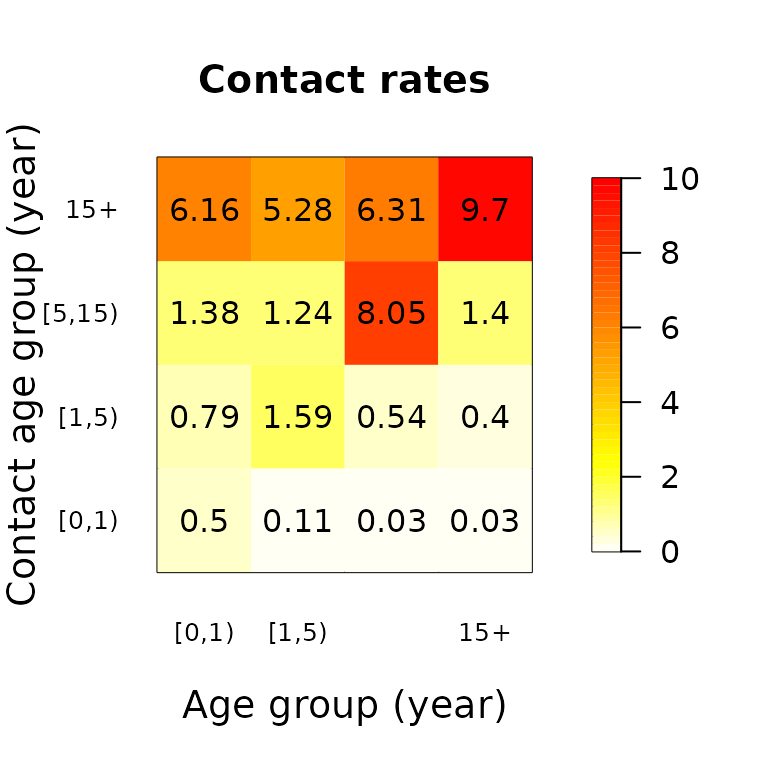
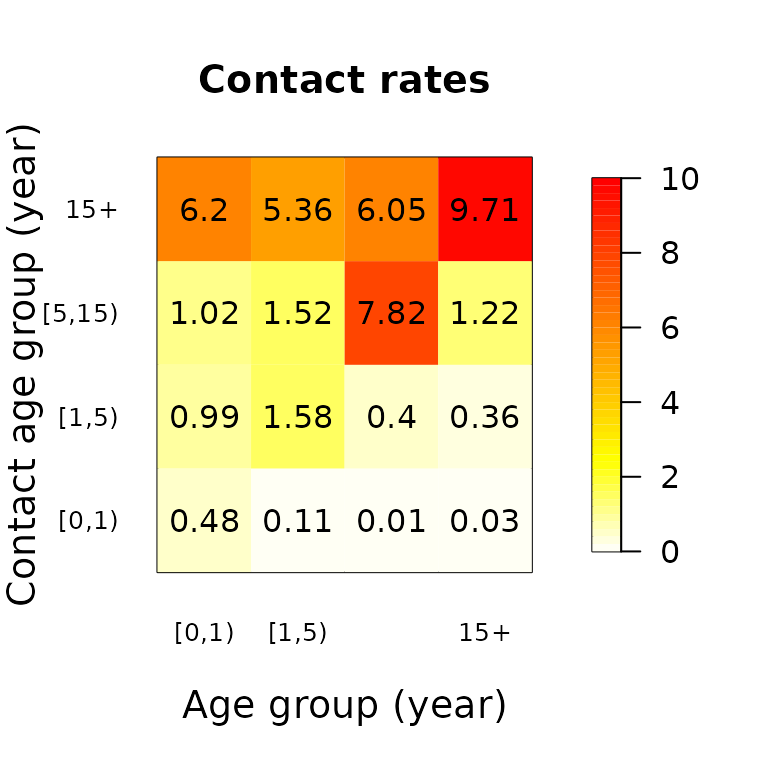
Deploying to gh-pages from @ epiforecasts/socialmixr@d3d4887175f21b2914ebb752b8e24715beb141ff 🚀

diff --git a/articles/socialmixr.html b/articles/socialmixr.html
@@ -225,10 +225,10 @@ be obtained, for example the mean:</p>
 <span><span class="va">mr</span></span>
 <span><span class="co">#&gt;          contact.age.group</span></span>
 <span><span class="co">#&gt; age.group      [0,1)     [1,5)   [5,15)      15+</span></span>
-<span><span class="co">#&gt;    [0,1)  0.49746032 0.7860317 1.376667 6.163214</span></span>
-<span><span class="co">#&gt;    [1,5)  0.11185585 1.5920255 1.240737 5.281708</span></span>
-<span><span class="co">#&gt;    [5,15) 0.02901799 0.5362565 8.051843 6.314400</span></span>
-<span><span class="co">#&gt;    15+    0.03259944 0.3955389 1.399096 9.704168</span></span></code></pre></div>
+<span><span class="co">#&gt;    [0,1)  0.48050420 0.9898039 1.018487 6.195350</span></span>
+<span><span class="co">#&gt;    [1,5)  0.10889383 1.5795335 1.523541 5.355014</span></span>
+<span><span class="co">#&gt;    [5,15) 0.01461439 0.4021419 7.819967 6.047563</span></span>
+<span><span class="co">#&gt;    15+    0.02986912 0.3596489 1.218660 9.706049</span></span></code></pre></div>
 </div>
 <div class="section level2">
 <h2 id="demography">Demography<a class="anchor" aria-label="anchor" href="#demography"></a>
